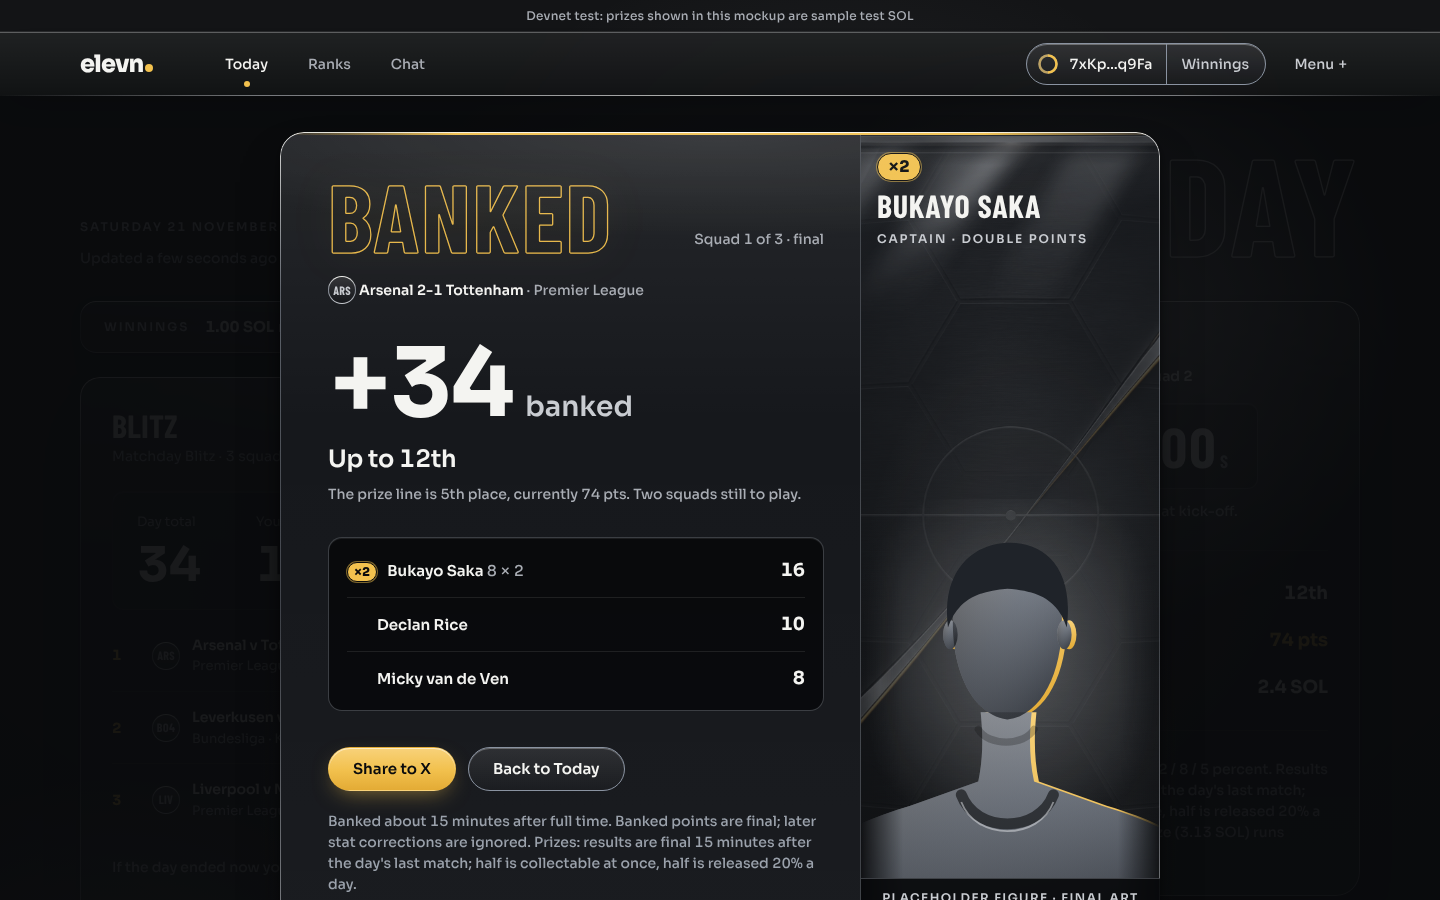
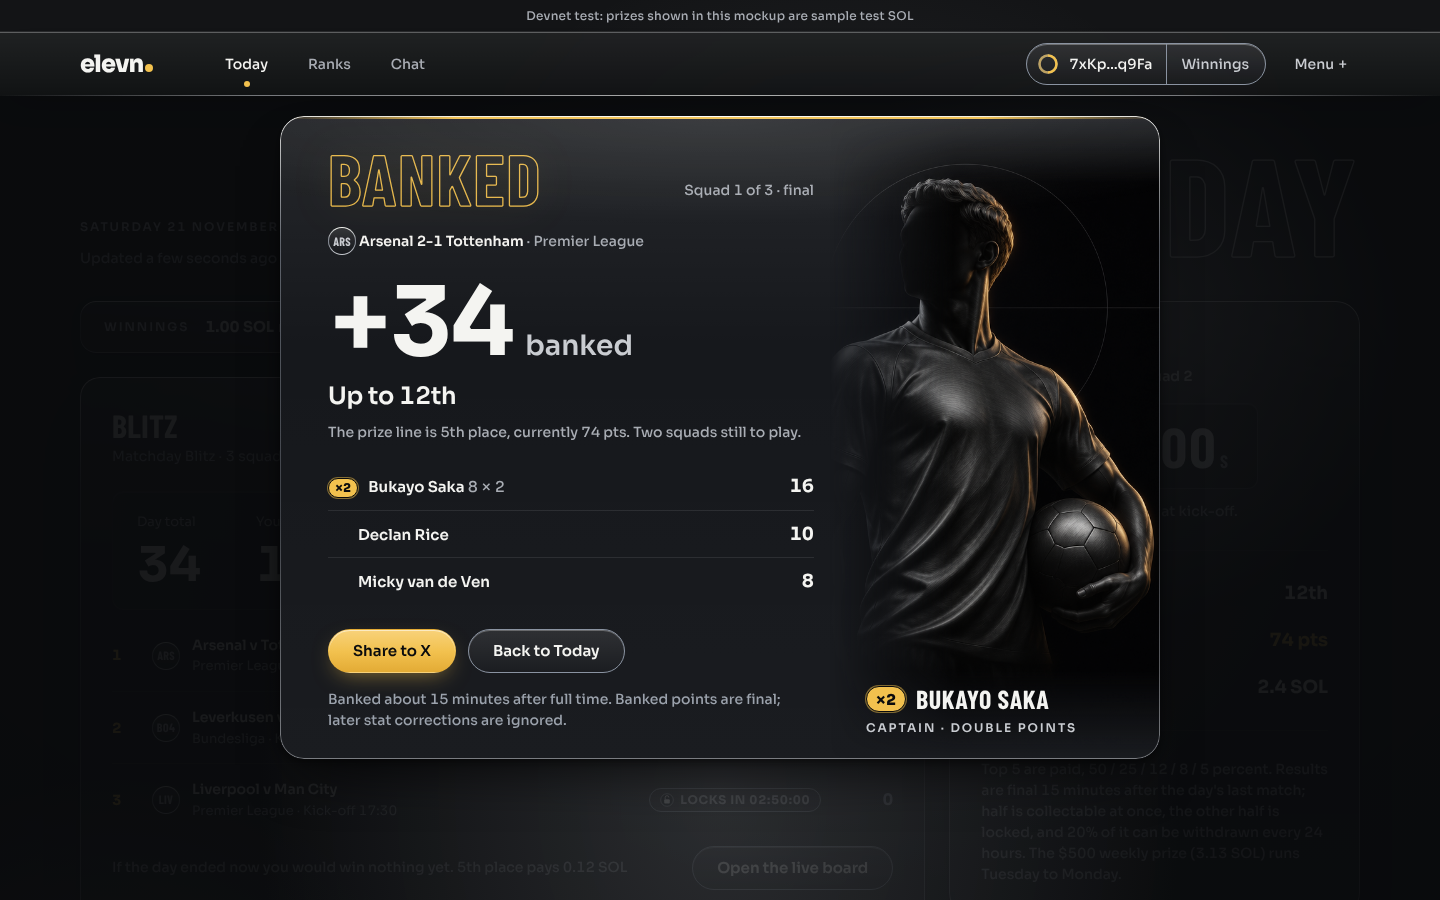
Banked mockup: minimal poster with the shared captain figure (awaiting head review)
Claude-Session: https://claude.ai/code/session_012GbKyktRC7AZHXPGqzBhVv

diff --git a/docs/design/mockups/banked-page.css b/docs/design/mockups/banked-page.css
@@ -1,42 +1,24 @@
 /* Banked screen: the poster with the captain figure (version C, chosen by the owner).
    Everything here is static: no animation, no transitions. Tokens only: near-black, warm white, steel, gold. */
 
-/* shared: player rows sit on the dark row fill, as the checklist asks */
-.bkc .bk-rows { background: var(--row); border: 1px solid var(--steel-edge); border-radius: 14px; padding: 6px 18px !important; box-shadow: inset 0 1px 0 rgba(255,255,255,.08); }
-.bkc .bk-rows > * { padding: 12px 0; }
-.bkc .bk-rows > *:first-child { padding-top: 12px; }
-.bkc .bk-rows > *:last-child { padding-bottom: 12px; }
+/* player rows: three plain ruled lines, no box */
+.bkc .bk-rows { background: none; border: 0; border-radius: 0; box-shadow: none; padding: 0 !important; }
 
-/* ---------- poster with the captain ---------- */
-.bkc .bkc-grid { display: grid; grid-template-columns: minmax(0, 1fr) 300px; }
-.bkc .bkc-fig { position: relative; overflow: hidden; border-left: 1px solid var(--steel-edge); min-height: 100%;
-  background:
-    radial-gradient(ellipse 80% 55% at 55% 62%, rgba(204,208,214,.16), rgba(204,208,214,0) 70%),
-    linear-gradient(180deg, #181b20 0%, #0e1013 100%); }
-.bkc .bkc-fig::before { content: ""; position: absolute; inset: 0; background: url("art/card.png") center 40% / cover; opacity: .22; }
-.bkc .bkc-fig .bk-rays { position: absolute; left: 0; right: 0; top: 0; height: 190px; overflow: hidden; pointer-events: none;
-  -webkit-mask: linear-gradient(180deg, transparent 0, #000 16%, #000 44%, transparent 100%); mask: linear-gradient(180deg, transparent 0, #000 16%, #000 44%, transparent 100%); }
-.bkc .bkc-fig .bk-rays i { position: absolute; top: -40px; height: 330px; transform-origin: 50% 0; filter: blur(9px);
-  background: linear-gradient(180deg, rgba(240,243,248,.5), rgba(240,243,248,.18) 55%, rgba(232,235,240,0)); }
-.bkc .bkc-fig .bk-rays i:nth-child(1) { left: 20%; width: 22px; transform: rotate(38deg); opacity: .6; }
-.bkc .bkc-fig .bk-rays i:nth-child(2) { left: 42%; width: 56px; transform: rotate(32deg); opacity: .5; }
-.bkc .bkc-fig .bk-rays i:nth-child(3) { left: 62%; width: 22px; transform: rotate(44deg); opacity: .6; }
-.bkc .bkc-fig .bk-rays i:nth-child(4) { left: 82%; width: 60px; transform: rotate(30deg); opacity: .4; }
-.bkc .bkc-art { position: absolute; left: 0; right: 0; bottom: 0; top: 96px; overflow: hidden;
-  -webkit-mask: linear-gradient(90deg, transparent 0, #000 14%, #000 86%, transparent 100%), linear-gradient(180deg, transparent 0, #000 12%, #000 100%); -webkit-mask-composite: source-in;
-  mask: linear-gradient(90deg, transparent 0, #000 14%, #000 86%, transparent 100%) intersect, linear-gradient(180deg, transparent 0, #000 12%, #000 100%); }
-/* final art: <img src="art/captain.png"> fills the box, head anchored to the top */
-.bkc .bkc-art img { display: block; width: 100%; height: 100%; object-fit: cover; object-position: 50% 0; }
-.bkc .bkc-art svg { position: absolute; left: 50%; bottom: 0; width: 400px; height: auto; transform: translateX(-50%); }
+/* ---------- minimal poster with the shared captain figure ---------- */
+.bkc .bkc-grid { display: grid; grid-template-columns: minmax(0, 1fr) 330px; }
+.bkc .bkc-fig { position: relative; overflow: hidden; min-height: 100%; }
+.bkc .bkc-art { position: absolute; inset: 0;
+  -webkit-mask: linear-gradient(90deg, transparent 0, #000 38%), linear-gradient(180deg, transparent 0, #000 10%, #000 86%, transparent 100%); -webkit-mask-composite: source-in;
+  mask: linear-gradient(90deg, transparent 0, #000 38%) intersect, linear-gradient(180deg, transparent 0, #000 10%, #000 86%, transparent 100%); }
+.bkc .bkc-art img { display: block; width: 100%; height: 100%; object-fit: cover; object-position: 78% 0; }
 /* the card's own fill is opaque so the dimmed page behind never reads through it; rim and bevel stay */
 .bkc.bk-dlg { background: linear-gradient(180deg, rgba(255,255,255,.10) 0%, rgba(255,255,255,.04) 36%, rgba(255,255,255,.055) 100%), #0d0f13; }
-.bkc .bkc-lab { position: absolute; left: 16px; right: 16px; top: 18px; display: flex; flex-direction: column; align-items: flex-start; gap: 8px; z-index: 2; }
-.bkc .bkc-lab .cap { min-width: 44px; height: 28px; border-radius: 14px; font-size: 16px; }
-.bkc .bkc-name { font-family: var(--font-display); font-weight: 700; font-size: 32px; line-height: 1; letter-spacing: .02em; text-transform: uppercase; color: var(--text); }
+.bkc .bkc-lab { position: absolute; left: 36px; right: 16px; bottom: 22px; display: flex; flex-direction: column; align-items: flex-start; gap: 6px; z-index: 2; }
+.bkc .bkc-row { display: flex; align-items: center; gap: 10px; }
+.bkc .bkc-lab .cap { min-width: 40px; height: 26px; border-radius: 13px; font-size: 15px; }
+.bkc .bkc-name { font-family: var(--font-display); font-weight: 700; font-size: 26px; line-height: 1; letter-spacing: .02em; text-transform: uppercase; color: var(--text); }
 .bkc .bkc-role { font-size: 12px; font-weight: 600; letter-spacing: .16em; text-transform: uppercase; color: var(--steel); }
-.bkc .bkc-ph { position: absolute; left: 0; right: 0; bottom: 0; z-index: 2; padding: 9px 14px; text-align: center; font-size: 12px; font-weight: 600; letter-spacing: .12em; text-transform: uppercase;
-  color: var(--steel); background: rgba(8,9,11,.92); border-top: 1px solid var(--steel-edge); }
-.bkc .bk-in { padding-right: 36px !important; }
+.bkc .bk-in { padding-right: 16px !important; }
 .bkc .bk-top { flex-wrap: wrap; }
 
 /* ---------- phone ---------- */
@@ -50,12 +32,13 @@
 .bkc .bk-in > p:last-child { margin-top: 16px !important; }
 @media (max-width: 700px) {
   .bkc .bkc-grid { grid-template-columns: 1fr; }
-  .bkc .bkc-fig { order: -1; min-height: 0; height: auto; border-left: 0; border-bottom: 1px solid var(--steel-edge); padding: 14px 20px; }
-  .bkc .bkc-fig::before, .bkc .bkc-fig .bk-rays, .bkc .bkc-art, .bkc .bkc-ph { display: none; }
-  .bkc .bkc-lab { position: static; flex-direction: row; flex-wrap: wrap; align-items: center; gap: 4px 10px; }
-  .bkc .bkc-lab .cap { height: 26px; min-width: 40px; font-size: 15px; }
+  .bkc .bkc-fig { order: -1; min-height: 0; height: 150px; }
+  .bkc .bkc-art { left: 42%; -webkit-mask: linear-gradient(90deg, transparent 0, #000 40%), linear-gradient(180deg, transparent 0, #000 12%, #000 62%, transparent 100%); -webkit-mask-composite: source-in;
+    mask: linear-gradient(90deg, transparent 0, #000 40%) intersect, linear-gradient(180deg, transparent 0, #000 12%, #000 62%, transparent 100%); }
+  .bkc .bkc-art img { object-position: 50% 0; }
+  .bkc .bkc-lab { left: 20px; right: auto; top: 0; bottom: 0; justify-content: center; max-width: 52%; }
+  .bkc .bkc-row { flex-direction: column; align-items: flex-start; gap: 6px; }
   .bkc .bkc-name { font-size: 24px; }
-  .bkc .bkc-role { display: block; font-size: 12px; letter-spacing: .12em; }
+  .bkc .bkc-role { letter-spacing: .12em; }
   .bkc .bk-in { padding-right: 20px !important; }
 }
-

diff --git a/docs/design/mockups/banked.html b/docs/design/mockups/banked.html
@@ -67,31 +67,9 @@
 <div class="bk-act" style="display:flex;gap:12px;margin-top:36px;align-items:center"><a class="btn btn-gold" href="#">Share to X</a><a class="btn btn-line" href="today.html">Back to Today</a></div>
 <p class="small steel2" style="margin-top:20px">Banked about 15 minutes after full time. Banked points are final; later stat corrections are ignored.</p>
 </div>
-<aside class="bkc-fig" aria-label="Captain: Bukayo Saka, placeholder artwork">
-<div class="bk-rays" aria-hidden="true"><i></i><i></i><i></i><i></i></div>
-<div class="bkc-art">
-<!-- FINAL ART GOES HERE: one shared piece for every captain (anonymous steel footballer, portrait about 2:3, near-black background fading to black at the edges).
-     Replace the placeholder <svg> below with: <img src="art/captain.png" alt="" width="600" height="900">
-     CSS (.bkc-art img) already sets object-fit: cover, head anchored to the top, and the edge fade. The name stays as text in .bkc-lab. -->
-<svg viewBox="0 0 330 360" role="img" aria-label="Placeholder silhouette of the captain" focusable="false">
-<defs>
-<linearGradient id="st" x1="0" y1="0" x2="1" y2="1"><stop offset="0" stop-color="#e4e6ea"/><stop offset=".45" stop-color="#8b929d"/><stop offset="1" stop-color="#2b2f36"/></linearGradient>
-<linearGradient id="gd" x1="0" y1="0" x2="0" y2="1"><stop offset="0" stop-color="#f8d27a"/><stop offset="1" stop-color="#e3ab35"/></linearGradient>
-<linearGradient id="sh" x1="1" y1="0" x2="0" y2="0"><stop offset="0" stop-color="#0a0b0d" stop-opacity="0"/><stop offset="1" stop-color="#0a0b0d" stop-opacity=".5"/></linearGradient>
-<g id="sil"><path d="M0 360 L0 322 C0 288 30 270 86 253 L142 233 L188 233 L244 253 C300 270 330 288 330 322 L330 360 Z M142 233 C146 214 146 196 144 176 L186 176 C184 196 184 214 188 233 Z"/><path d="M121 102 C121 60 141 43 166 43 C191 43 211 60 211 102 C211 142 195 178 166 182 C137 178 121 142 121 102 Z"/><ellipse cx="119" cy="112" rx="6" ry="12"/><ellipse cx="213" cy="112" rx="6" ry="12"/></g>
-<radialGradient id="gl" cx=".5" cy=".5" r=".5"><stop offset="0" stop-color="#e4e6ea" stop-opacity=".22"/><stop offset="1" stop-color="#e4e6ea" stop-opacity="0"/></radialGradient>
-</defs>
-<circle cx="165" cy="130" r="150" fill="url(#gl)"/>
-<use href="#sil" fill="url(#gd)"/>
-<g transform="translate(-4 0)"><use href="#sil" fill="url(#st)"/><use href="#sil" fill="url(#sh)"/>
-<path d="M117 106 C111 58 139 36 168 36 C198 36 221 58 215 106 C208 86 196 76 166 74 C138 76 124 86 117 106 Z" fill="#1f2329"/>
-<path d="M128 244 C140 276 192 276 204 244" fill="none" stroke="#0a0b0d" stroke-opacity=".6" stroke-width="9" stroke-linecap="round"/>
-<path d="M128 244 C140 276 192 276 204 244" fill="none" stroke="#e4e6ea" stroke-opacity=".5" stroke-width="1.5" transform="translate(0 6)"/>
-<path d="M142 190 C150 204 180 204 188 190" fill="none" stroke="#0a0b0d" stroke-opacity=".25" stroke-width="6" stroke-linecap="round"/></g>
-</svg>
-</div>
-<div class="bkc-lab"><span class="cap">×2</span><span class="bkc-name">Bukayo Saka</span><span class="bkc-role">Captain · double points</span></div>
-<div class="bkc-ph">Placeholder figure · final art later</div>
+<aside class="bkc-fig" aria-label="Captain: Bukayo Saka">
+<div class="bkc-art"><img src="art/captain.png" alt="" width="688" height="1024"></div>
+<div class="bkc-lab"><span class="bkc-row"><span class="cap">×2</span><span class="bkc-name">Bukayo Saka</span></span><span class="bkc-role">Captain · double points</span></div>
 </aside>
 </div>
 </section></div>

diff --git a/docs/design/LESSONS.md b/docs/design/LESSONS.md
@@ -390,3 +390,9 @@ Reporting
 - Banked fix (tested, card becomes 657px, bottom at 773px, +34 clearly loudest): title 72px; `.bk-ov` padding-top 20px; `.bkc .bk-in` padding 28px top and bottom; `.bk-num` margin 20px 0 6px; `.bk-rows` margin-top 20px and rows 9px padding; `.bk-act` margin-top 24px; footnote cut to "Banked about 15 minutes after full time. Banked points are final; later stat corrections are ignored." (the prize sentence is already on Today). The figure box then is 300x558, close to 2:3, so the shared image loses only 36px a side instead of 85px.
 - Held: contrast 5.5:1 or better on rendered pixels, one gold button, no animation, nothing readable through the card, a 2:3 test image sits below the name with its head fully visible; switch hidden from 901px up, 48px buttons, gold focus ring, aria-pressed toggles, both clubs stacked with JavaScript off; shape badge one line and identical to READY, under the heading at 1101 and 390.
 - Rule for next time: measure a dialog against the real browser window (viewport height minus about 110px of browser bars), not the bare 900px; and when two things on one card share the top size, drop the label, never the number.
+
+## 2026-11-19 · banked agent · minimal poster with the shared captain figure
+- Did: swapped the placeholder silhouette for `art/captain.png`; removed the hex texture, streaks, rays, gold ticks, figure-panel border and the "placeholder" strip; the three player rows are now plain ruled lines with no box. Card is 643px tall (top 116, bottom 759), 17px shorter than before.
+- How: the figure column is 330px, image `object-fit: cover` anchored to the top and masked to transparent on its left, top and bottom edges so it melts into the card fill (the art is near-black). The captain label sits at the bottom over the dark legs area, never on the lit shirt. Phone: a 150px banner with the label on the left and the head and shoulders on the right; both buttons still sit above 844px.
+- Changed: a first script replaced the wrong `</aside>` (the page behind has one too); search for the closing tag from the opening tag's index.
+- Rule for next time: when swapping art into a card, fade the image into the card fill with a mask rather than boxing it, and put text only on the dark part of the picture; measure contrast on a screenshot taken with the text made transparent.
